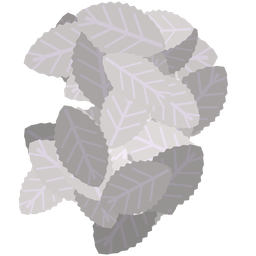
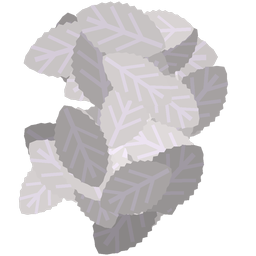
Witness tree at night: three pairs of bold side veins, stronger violet, darker blades, glow fades where lines are finer than a pixel (Lane A pictures of #1932)
Claude-Session: https://claude.ai/code/session_01KmdmcH7f5iEaBnTdbqvjht

diff --git a/assets/trees/make_tree_textures.py b/assets/trees/make_tree_textures.py
@@ -376,9 +376,9 @@ def twig_birch(name, size, seed):
 def witness_leaf(rd, ad, md, cx, cy, length, width, angle, shade, rng):
     # Witness tree (owner, 2026-10-18; Dave's picture 25 Nov 2026, art/references/witness_tree_dave_2026-11-25.jpg):
     # an oval, finely toothed leaf whose veins are barely seen by day and glow at night as a clear feather: one
-    # midrib and four pairs of side veins, bold enough to read as lines on each leaf. The albedo vein is only a
+    # midrib and three pairs of side veins, bold enough to read as lines on each leaf. The albedo vein is only a
     # shade paler than the blade; md (leaf_witness_veins.png) is the glow: 255 on a thin core at the centre of a
-    # vein line, 150 over the rest of the line (violet, not white), and a faint 10 over the blade inside a dark rim, so at
+    # vein line, 150 over the rest of the line (violet, not white), and a faint 5 over the blade inside a dark rim, so at
     # night each leaf still reads as a broad dark shape round its veins, not only a skeleton (Lane A, 25 Nov 2026).
     # Each leaf covers the mask under it, so a leaf in front hides the veins of the leaves behind.
     ca, sa = math.cos(angle), math.sin(angle)
@@ -396,14 +396,14 @@ def witness_leaf(rd, ad, md, cx, cy, length, width, angle, shade, rng):
         pts.append(at(t * length, w))
     rd.polygon(pts, fill=grey(shade))
     ad.polygon(pts, fill=255)
-    md.polygon(pts, fill=10, outline=0, width=max(1, int(width * 0.04)))   # a dark rim parts it from the leaves behind
+    md.polygon(pts, fill=5, outline=0, width=max(1, int(width * 0.05)))   # a dark rim parts it from the leaves behind
     vein = (int(min(255, shade * 1.06)), int(min(255, shade * 1.02)), int(min(255, shade * 1.08)))   # a shade paler: barely seen by day
-    lines = [(at(length * 0.04, 0), at(length * 0.9, 0), 0.075)]
-    for k in range(1, 5):
-        x = length * (0.1 + 0.17 * k)
-        w = math.sin(min(0.95, x / length + 0.12) * math.pi) ** 0.7 * width * 0.4
+    lines = [(at(length * 0.04, 0), at(length * 0.88, 0), 0.1)]
+    for k in range(1, 4):   # three pairs of bold side veins, swept toward the tip (four thin pairs read as a busy frond, Lane A 25 Nov 2026)
+        x = length * (0.08 + 0.2 * k)
+        w = math.sin(min(0.95, x / length + 0.12) * math.pi) ** 0.7 * width * 0.38
         for side in (-1, 1):
-            lines.append((at(x - length * 0.02, 0), at(x + length * 0.16, side * w), 0.05))
+            lines.append((at(x - length * 0.02, 0), at(x + length * 0.2, side * w), 0.075))
     for a, b, frac in lines:
         rd.line([a, b], fill=vein, width=max(1, int(width * frac)))
     for a, b, frac in lines:   # the glow: the violet line, then a thin bright core

diff --git a/BugsList_Current.md b/BugsList_Current.md
@@ -1668,7 +1668,7 @@ Now the grid's bottom left point sits at the crosshair (on the bed or metre cell
 
 ## 151. The witness tree's whole canopy glows violet at night
 
-**Found by:** Dave, his own play, 25 Nov 2026: "I have noticed these trees at night and its not just the veins its the entire canopy is glowing violet. which is not per the design." (R-FLORA-WITNESS-GLOW.) **Status: Implemented - awaiting player verification.** Two causes: the leaf shader lit every leaf at 60 to 100% of the glow, not only the veins, and each grown witness tree hung a violet light in its crown (45% of its height, reaching 60% of it) that lit the whole canopy from inside. Now only the violet vein lines in the leaf texture glow (flora_view.gd FOLIAGE_SHADER vein_mask), and the tree sends no light (data/tables/flora.json). The everember was checked: its glow is already only in its bark veins, and its light stays at 2 m to light the ground. Guarded by `tools/check_dave_rules.py`. Merged in PR #1929; Lane A's night picture then showed the crown as a pale lavender fern mesh, not Dave's picture (`art/references/witness_tree_dave_2026-11-25.jpg`, 25 Nov 2026: "this is how I was envisioning the tree"). The follow-up repaints the leaf card with 48 big leaves instead of 170 small ones, each with one midrib and four pairs of bold side veins; the veins are barely seen by day, and a separate glow mask (`assets/trees/leaf_witness_veins.png`) makes only those lines glow violet at night, near white at their centres, on dark leaves. Merged in PR #1931; on its Lane A pictures the veins read near white, the leaves at night as thin frond skeletons and by day near black with purple lines. The tuning pass makes the lines saturated violet with only a thin paler core, gives each leaf a faint dark-violet blade inside a dark rim so it reads as a broad leaf at night, turns the vein glow down to almost nothing by day, and makes the leaves a normal dark green. Not yet played; needs a night picture near and far.
+**Found by:** Dave, his own play, 25 Nov 2026: "I have noticed these trees at night and its not just the veins its the entire canopy is glowing violet. which is not per the design." (R-FLORA-WITNESS-GLOW.) **Status: Implemented - awaiting player verification.** Two causes: the leaf shader lit every leaf at 60 to 100% of the glow, not only the veins, and each grown witness tree hung a violet light in its crown (45% of its height, reaching 60% of it) that lit the whole canopy from inside. Now only the violet vein lines in the leaf texture glow (flora_view.gd FOLIAGE_SHADER vein_mask), and the tree sends no light (data/tables/flora.json). The everember was checked: its glow is already only in its bark veins, and its light stays at 2 m to light the ground. Guarded by `tools/check_dave_rules.py`. Merged in PR #1929; Lane A's night picture then showed the crown as a pale lavender fern mesh, not Dave's picture (`art/references/witness_tree_dave_2026-11-25.jpg`, 25 Nov 2026: "this is how I was envisioning the tree"). The follow-up repaints the leaf card with 48 big leaves instead of 170 small ones, each with one midrib and four pairs of bold side veins; the veins are barely seen by day, and a separate glow mask (`assets/trees/leaf_witness_veins.png`) makes only those lines glow violet at night, near white at their centres, on dark leaves. Merged in PR #1931; on its Lane A pictures the veins read near white, the leaves at night as thin frond skeletons and by day near black with purple lines. The tuning pass makes the lines saturated violet with only a thin paler core, gives each leaf a faint dark-violet blade inside a dark rim so it reads as a broad leaf at night, turns the vein glow down to almost nothing by day, and makes the leaves a normal dark green. PR #1932 (merged) got the day look right; at night the veins were still pale and the herringbone busy, and at 60 m the crown read as a purple speckled mass. The next pass: three pairs of bolder side veins, a stronger violet, a fainter blade fill (5), and the glow fading to a third where the lines are finer than a pixel, so a far crown stays dark with flecks. Not yet played; needs a night picture near and far.
 
 ## 152. A running animal's call stayed where it started
 
